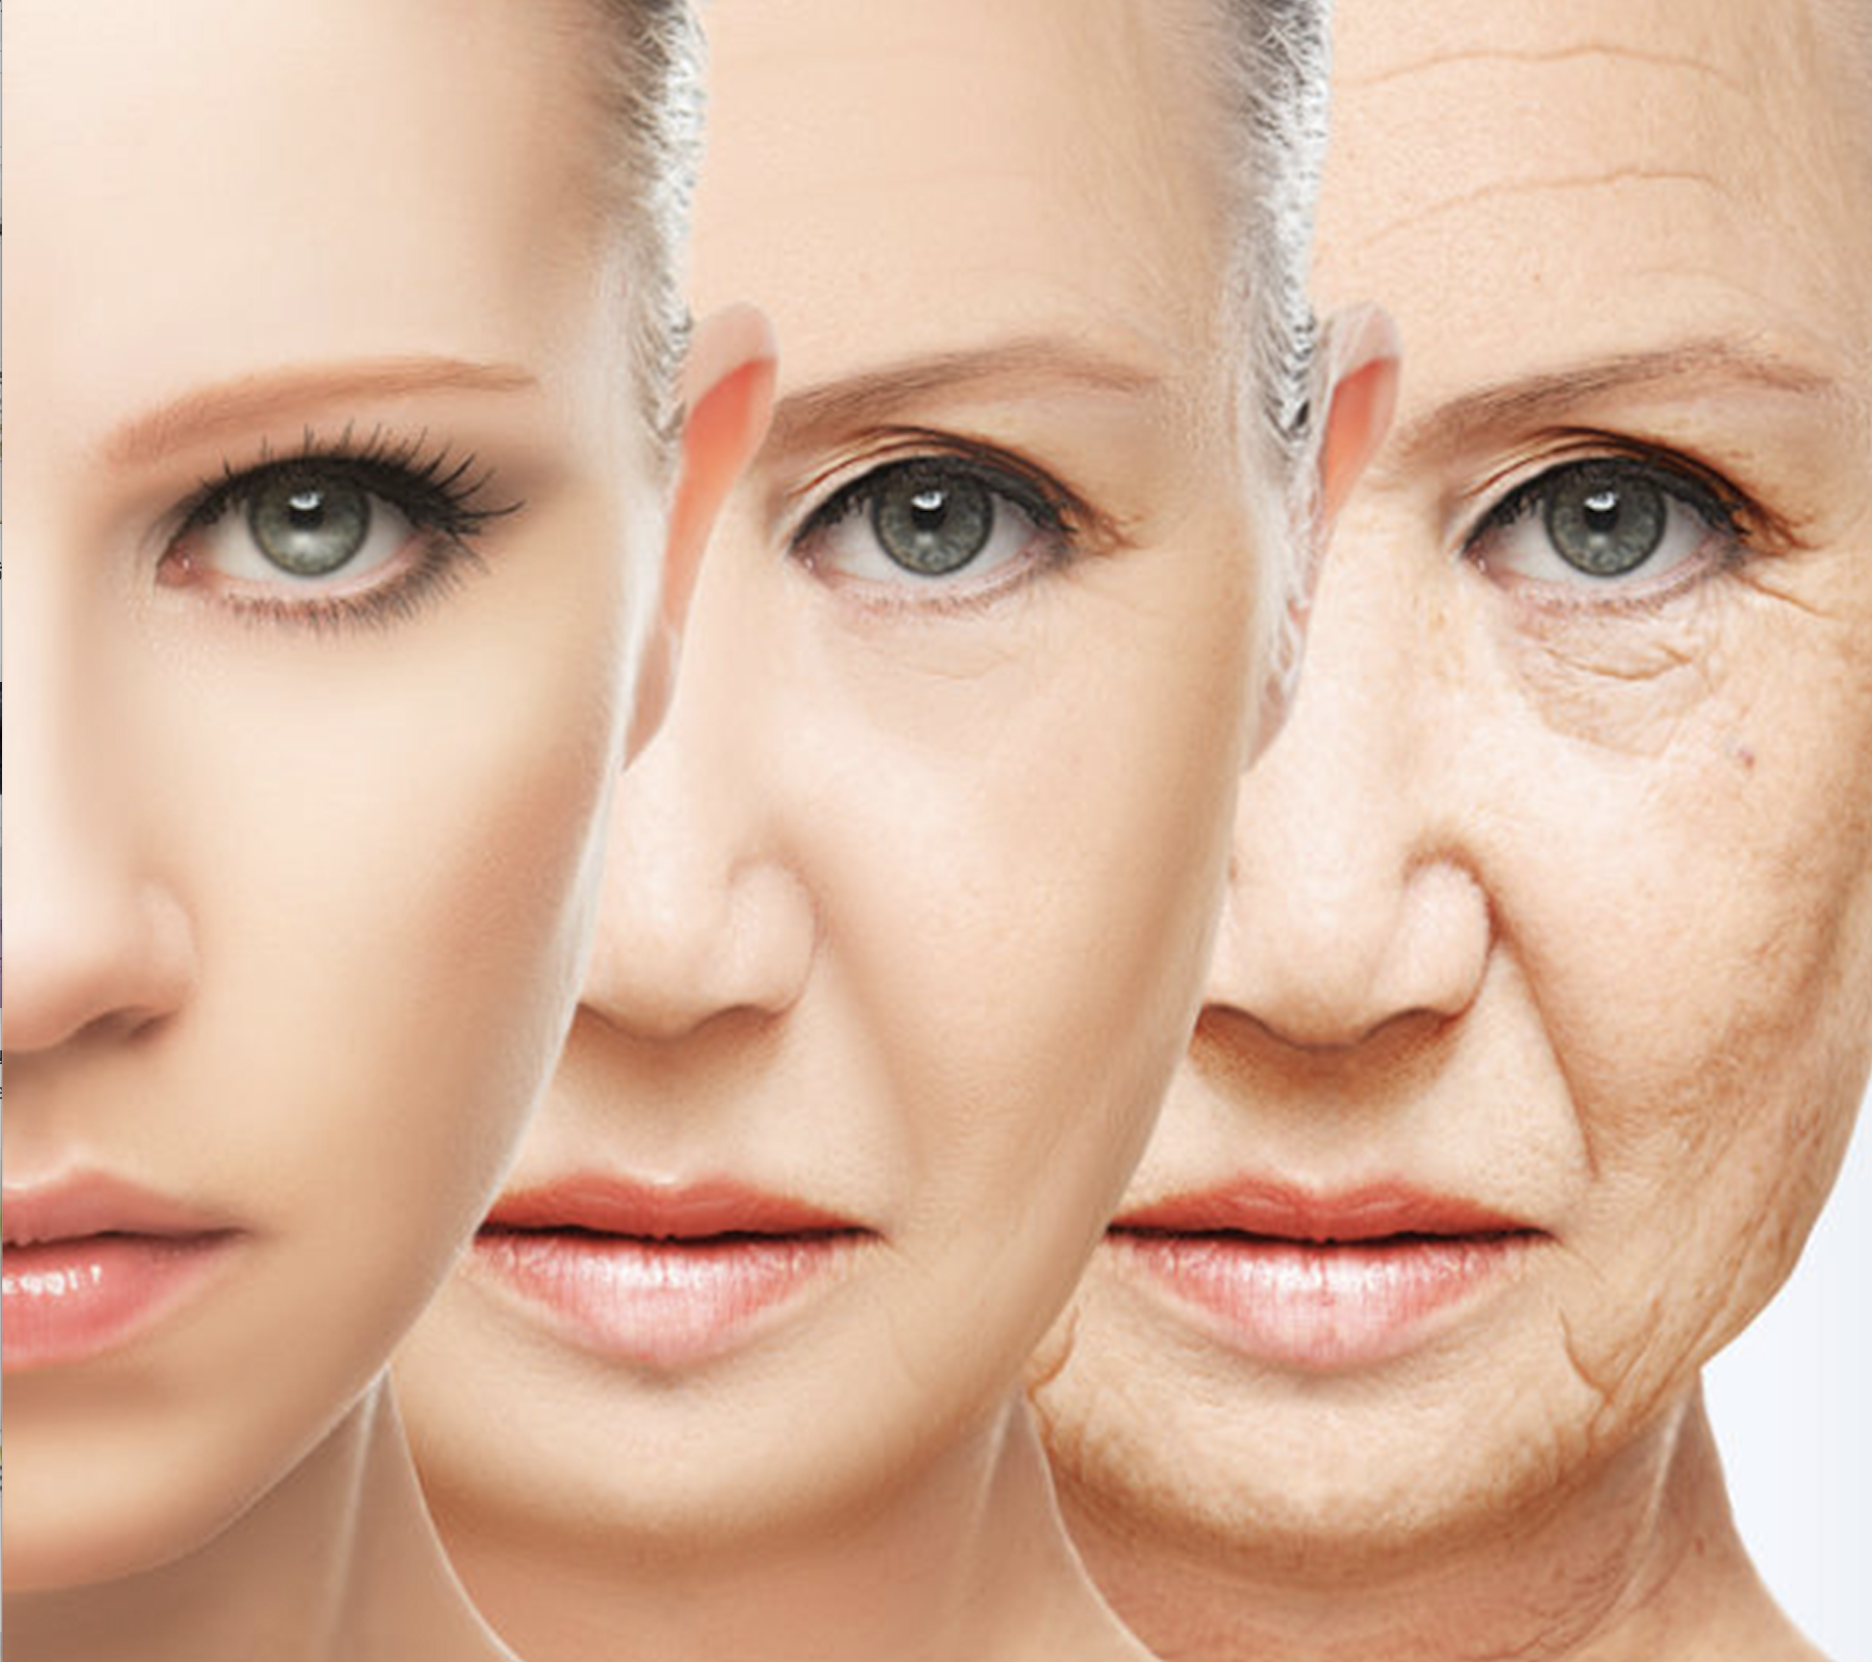
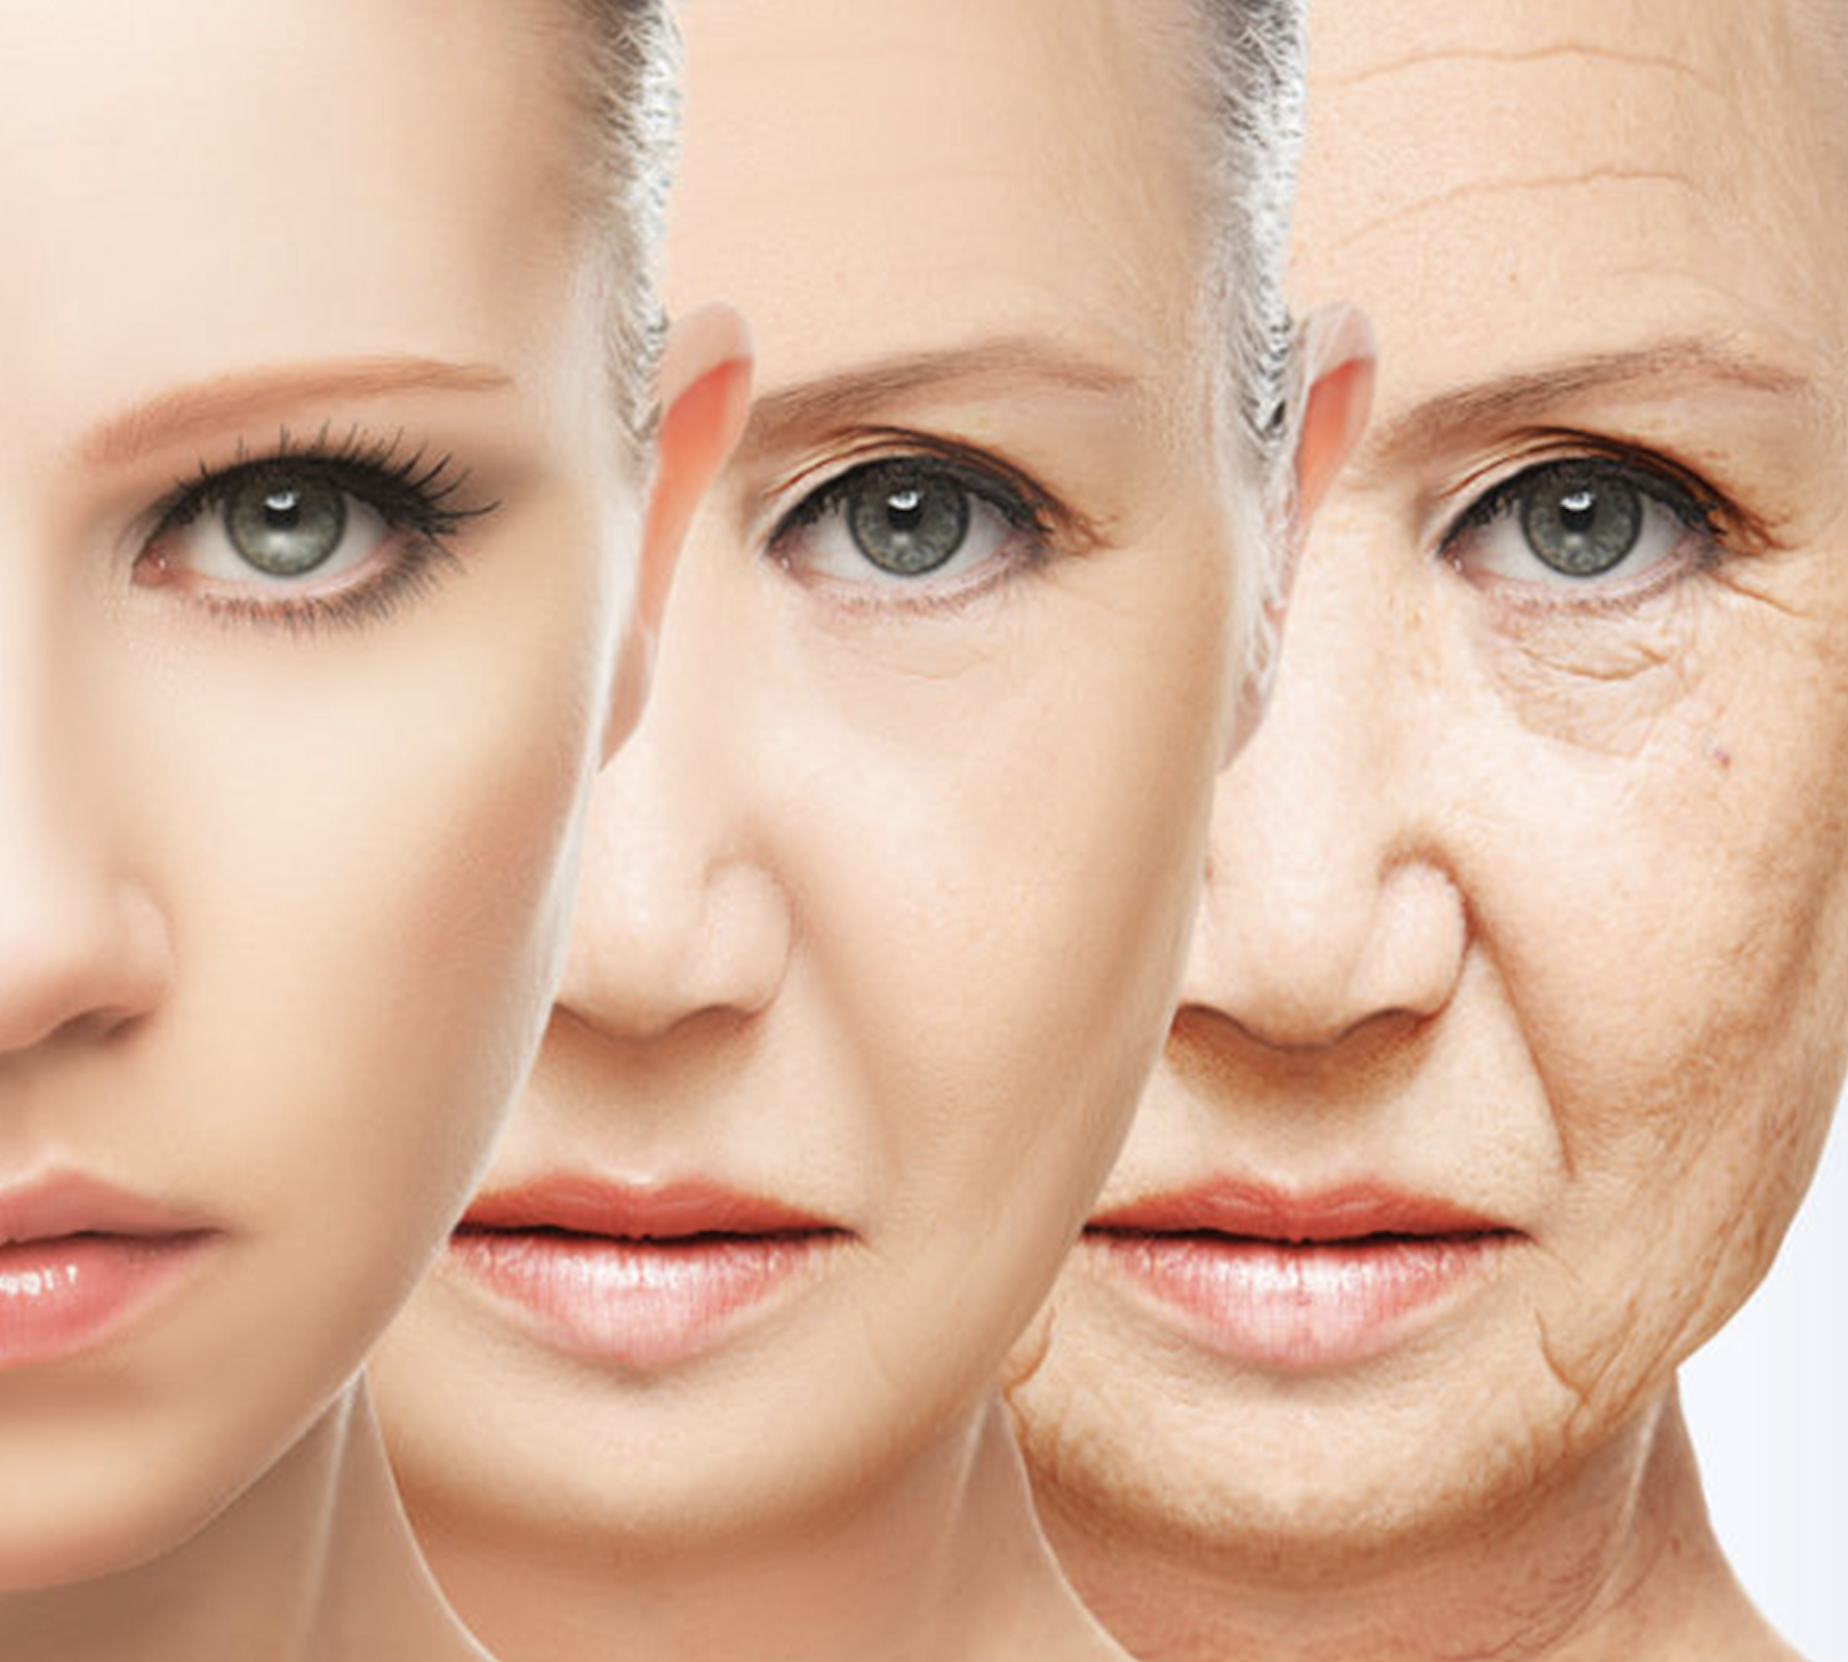
update backclock image

diff --git a/public/abcprimetime/index.html b/public/abcprimetime/index.html
@@ -30,7 +30,31 @@
       />
     </span></a></p>
 <h3>งานวิจัยทางวิทยาศาสตร์ของ Nrf2 Activator</h3>
-<p><a href="https://www.youtube.com/watch?v=rwg4LW8xACU"><img src="./backtheclock.jgp" alt="Back the Clock"></a></p>
+<p><a href="https://www.youtube.com/watch?v=rwg4LW8xACU"><span
+      class="gatsby-resp-image-wrapper"
+      style="position: relative; display: block; margin-left: auto; margin-right: auto; max-width: 630px; "
+    >
+      <span
+    class="gatsby-resp-image-background-image"
[1 lines of base64/hex data omitted]
+  ></span>
+  <img
+        class="gatsby-resp-image-image"
+        alt="Back the Clock"
+        title="Back the Clock"
+        src="/nutrigenomics/static/1ee61de595e799ec6d0a96321c7045bc/f058b/backclock.png"
+        srcset="/nutrigenomics/static/1ee61de595e799ec6d0a96321c7045bc/c26ae/backclock.png 158w,
+/nutrigenomics/static/1ee61de595e799ec6d0a96321c7045bc/6bdcf/backclock.png 315w,
+/nutrigenomics/static/1ee61de595e799ec6d0a96321c7045bc/f058b/backclock.png 630w,
+/nutrigenomics/static/1ee61de595e799ec6d0a96321c7045bc/40601/backclock.png 945w,
+/nutrigenomics/static/1ee61de595e799ec6d0a96321c7045bc/78612/backclock.png 1260w,
+/nutrigenomics/static/1ee61de595e799ec6d0a96321c7045bc/da952/backclock.png 1872w"
+        sizes="(max-width: 630px) 100vw, 630px"
+        style="width:100%;height:100%;margin:0;vertical-align:middle;position:absolute;top:0;left:0;"
+        loading="lazy"
+        decoding="async"
+      />
+    </span></a></p>
 <h3>การศึกษาของ NIA ยืนยันการยืดอายุขัย</h3>
 <p><a href="https://www.youtube.com/watch?v=AZrNLKV8Mes"><span
       class="gatsby-resp-image-wrapper"
